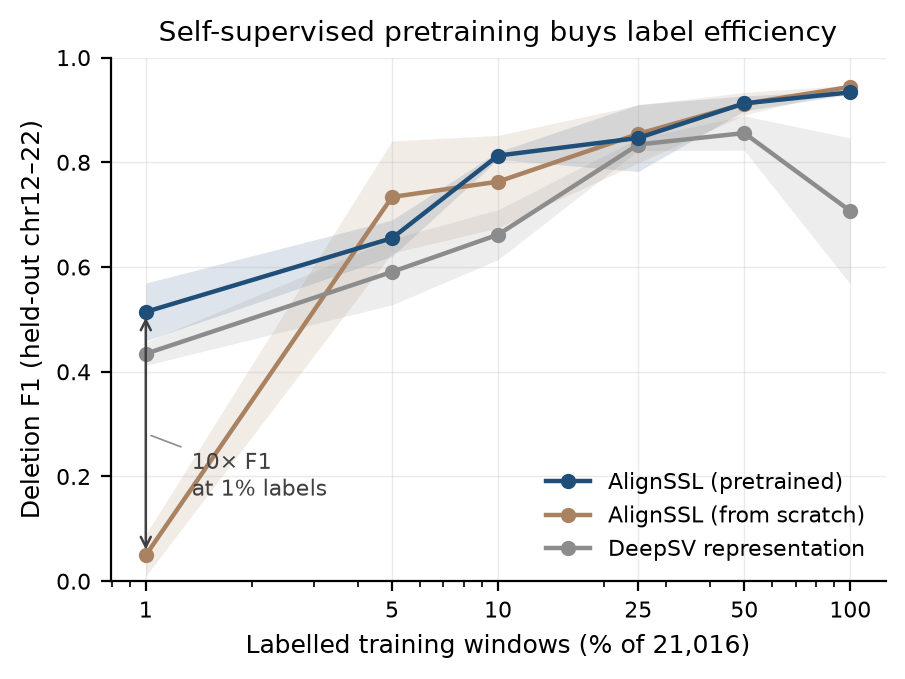
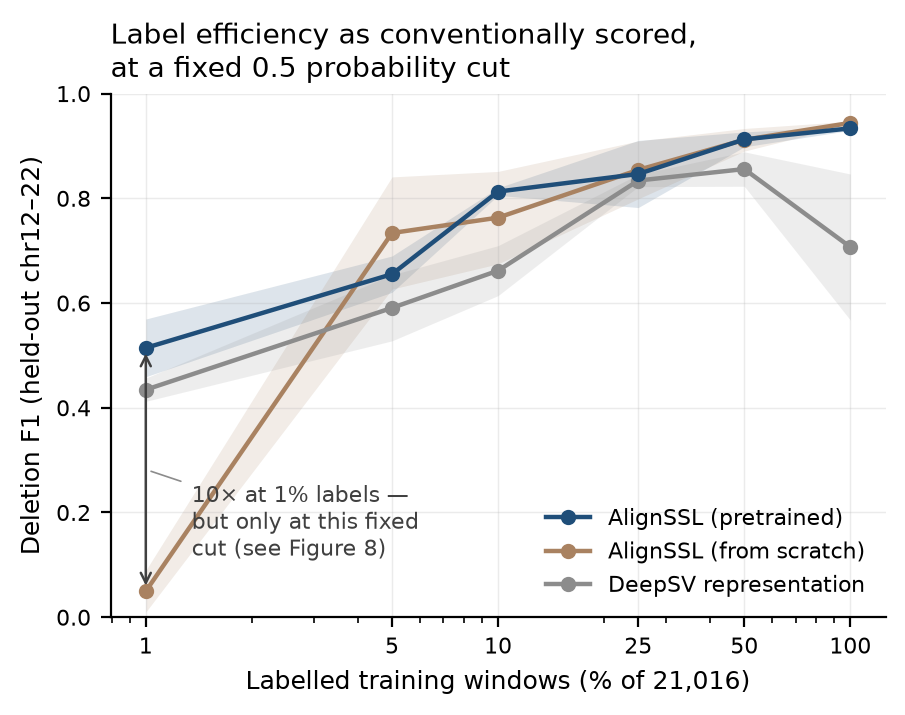
Figure 1 no longer asserts the claim Figure 8 refutes
The title read 'Self-supervised pretraining buys label efficiency' and the
annotation read '10x F1 at 1% labels' -- both are statements about the
representation, and neither survives threshold selection. The curves are
still worth showing: they are the conventional scoring, and the reader needs
to see what the convention produces before seeing why it misleads.

So the figure keeps its data and changes what it claims. The title now names
the scoring rule ('as conventionally scored, at a fixed 0.5 probability cut')
and the annotation qualifies the multiplier in place, pointing at Figure 8
rather than leaving the number to stand on its own.

diff --git a/analysis/make_figures.py b/analysis/make_figures.py
@@ -135,11 +135,13 @@ def figure1(res: Path, out: Path) -> None:
     ax.annotate("", xy=(x[0], lo_p), xytext=(x[0], lo_s),
                 arrowprops=dict(arrowstyle="<->", lw=0.9, color="0.25",
                                 shrinkA=2, shrinkB=2))
-    ax.annotate(f"{lo_p / max(lo_s, 1e-9):.0f}\u00d7 F1\nat 1% labels",
-                xy=(x[0], (lo_p + lo_s) / 2), xytext=(x[0] * 1.35, 0.20),
+    ax.annotate(f"{lo_p / max(lo_s, 1e-9):.0f}\u00d7 at 1% labels —\n"
+                "but only at this fixed\ncut (see Figure 8)",
+                xy=(x[0], (lo_p + lo_s) / 2), xytext=(x[0] * 1.35, 0.18),
                 fontsize=8, color="0.25", va="center",
                 arrowprops=dict(arrowstyle="-", lw=0.6, color="0.55"))
-    ax.set_title("Self-supervised pretraining buys label efficiency")
+    ax.set_title("Label efficiency as conventionally scored,\n"
+                 "at a fixed 0.5 probability cut", loc="left")
     ax.legend(loc="lower right", frameon=False)
     fig.savefig(out / "figure1_label_efficiency.png")
     plt.close(fig)
